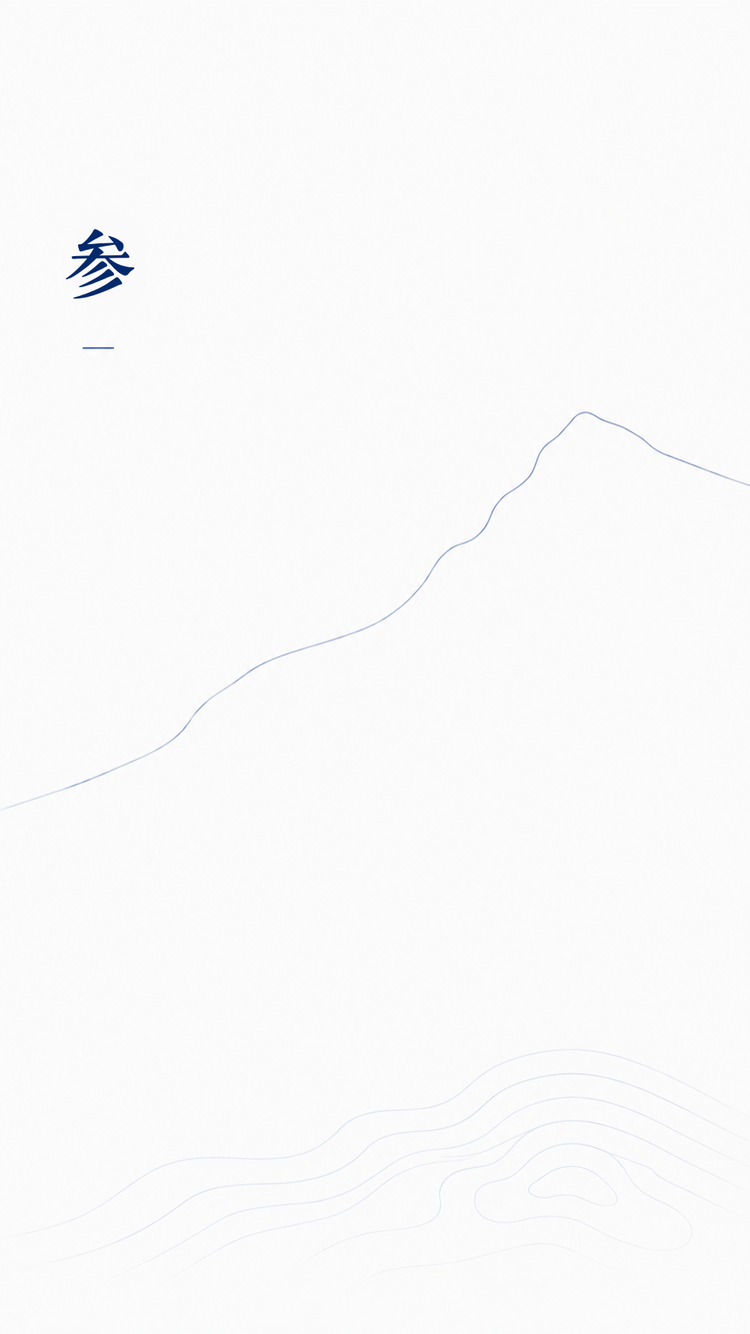
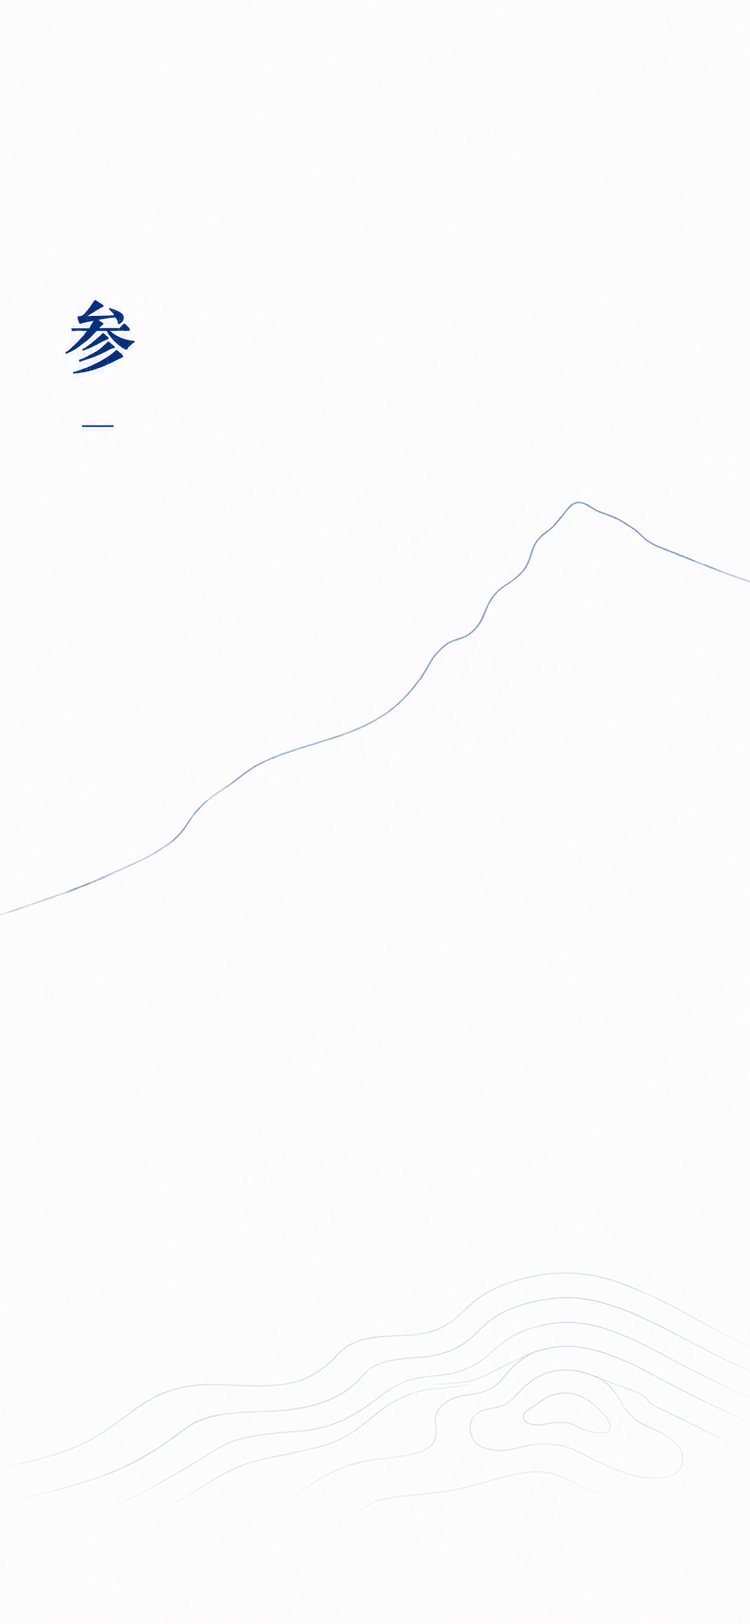
真机调试修bug

diff --git a/miniprogram/pages/mine/mine.js b/miniprogram/pages/mine/mine.js
@@ -40,30 +40,12 @@ Page({
     joinedLabel: '',
     userName: '',
     avatarDisplayUrl: '',
-    floatingBellTop: '180rpx',
   },
 
   onLoad(options) {
     tenant.applyPageOptions(options);
     this._loadVersion = 0;
-    this.computeFloatingBellTop();
     this.checkAuth();
-  },
-
-  computeFloatingBellTop() {
-    let statusBarHeight = 0;
-    try {
-      const sys = typeof wx.getSystemInfoSync === 'function' ? wx.getSystemInfoSync() : null;
-      statusBarHeight = Number(sys && sys.statusBarHeight) || 0;
-    } catch (_) {
-      statusBarHeight = 0;
-    }
-    // 状态栏 + 系统导航栏(44px) + 顶部留白(约 20rpx)
-    const navBarHeight = 44; // px
-    const topPx = statusBarHeight + navBarHeight;
-    // rpx: 1px = 2rpx (iPhone 6/7/8 标准 750rpx 屏宽)
-    const topRpx = Math.round(topPx * 2) + 20;
-    this.setData({ floatingBellTop: `${topRpx}rpx` });
   },
 
   onShow() {

diff --git a/miniprogram/tests/image.test.js b/miniprogram/tests/image.test.js
@@ -64,6 +64,6 @@ test('活动海报为空时会回退到默认背景图', async () => {
     { id: 2, poster_url: null },
   ]);
 
-  assert.equal(items[0].poster_url, '/assets/defaultbg.webp');
-  assert.equal(items[1].poster_url, '/assets/defaultbg.webp');
+  assert.equal(items[0].poster_url, '/assets/defaultbg.jpg');
+  assert.equal(items[1].poster_url, '/assets/defaultbg.jpg');
 });

diff --git a/miniprogram/pages/activity-detail/activity-detail.js b/miniprogram/pages/activity-detail/activity-detail.js
@@ -174,7 +174,7 @@ Page({
           actionTipText = '活动已结束，无法报名';
         }
 
-        const posterUrl = await image.resolveDisplayUrl(activity.poster_url) || '/assets/defaultbg.webp';
+        const posterUrl = await image.resolveDisplayUrl(activity.poster_url) || '/assets/defaultbg.jpg';
         const detailParagraphs = this.buildDetailParagraphs(activity.activity_intro);
         const infoRows = this.buildInfoRows(activity, startDisplay, endDisplay, joinMethodDisplay);
         const heroKicker = this.resolveHeroKicker(activity);

diff --git a/miniprogram/pages/community/index.js b/miniprogram/pages/community/index.js
@@ -7,7 +7,7 @@ const FALLBACK_THEMES = ['theme-ocean', 'theme-mist', 'theme-sand', 'theme-fores
 
 function resolveChannelCover(avatarUrl) {
   const text = avatarUrl == null ? '' : String(avatarUrl).trim();
-  if (!text) return '/assets/defaultbg.webp';
+  if (!text) return '/assets/defaultbg.jpg';
   if (/^https?:\/\//i.test(text)) return text;
   return api.getImageUrl(text);
 }

diff --git a/miniprogram/tests/activity-detail-page.test.js b/miniprogram/tests/activity-detail-page.test.js
@@ -312,5 +312,5 @@ test('活动详情页海报为空时会回退到默认背景图', async () => {
   page.loadActivity(12);
   await new Promise((resolve) => setTimeout(resolve, 0));
 
-  assert.equal(page.data.activity.poster_url, '/assets/defaultbg.webp');
+  assert.equal(page.data.activity.poster_url, '/assets/defaultbg.jpg');
 });

diff --git a/miniprogram/tests/community-index-page.test.js b/miniprogram/tests/community-index-page.test.js
@@ -177,5 +177,5 @@ test('社区首页默认社区封面会回退到默认背景图', async () => {
   const page = createPageInstance(pageConfig);
   await page.loadChannels();
 
-  assert.equal(page.data.channels[0].cover_url, '/assets/defaultbg.webp');
+  assert.equal(page.data.channels[0].cover_url, '/assets/defaultbg.jpg');
 });

diff --git a/miniprogram/utils/image.js b/miniprogram/utils/image.js
@@ -1,7 +1,7 @@
 const api = require('./api');
 
 const imageCache = {};
-const DEFAULT_POSTER_PATH = '/assets/defaultbg.webp';
+const DEFAULT_POSTER_PATH = '/assets/defaultbg.jpg';
 
 function isLocalPath(url) {
   return !!url && (